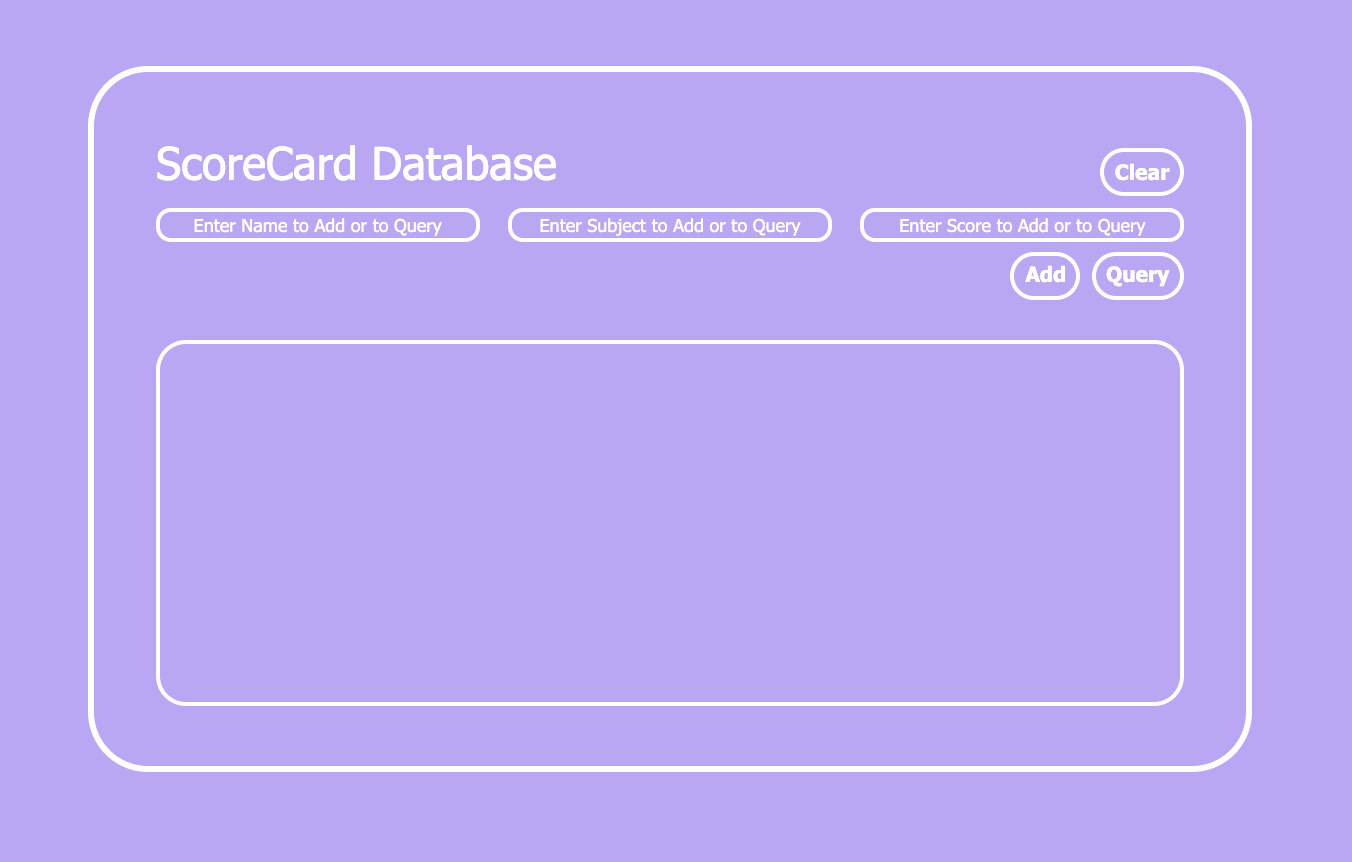
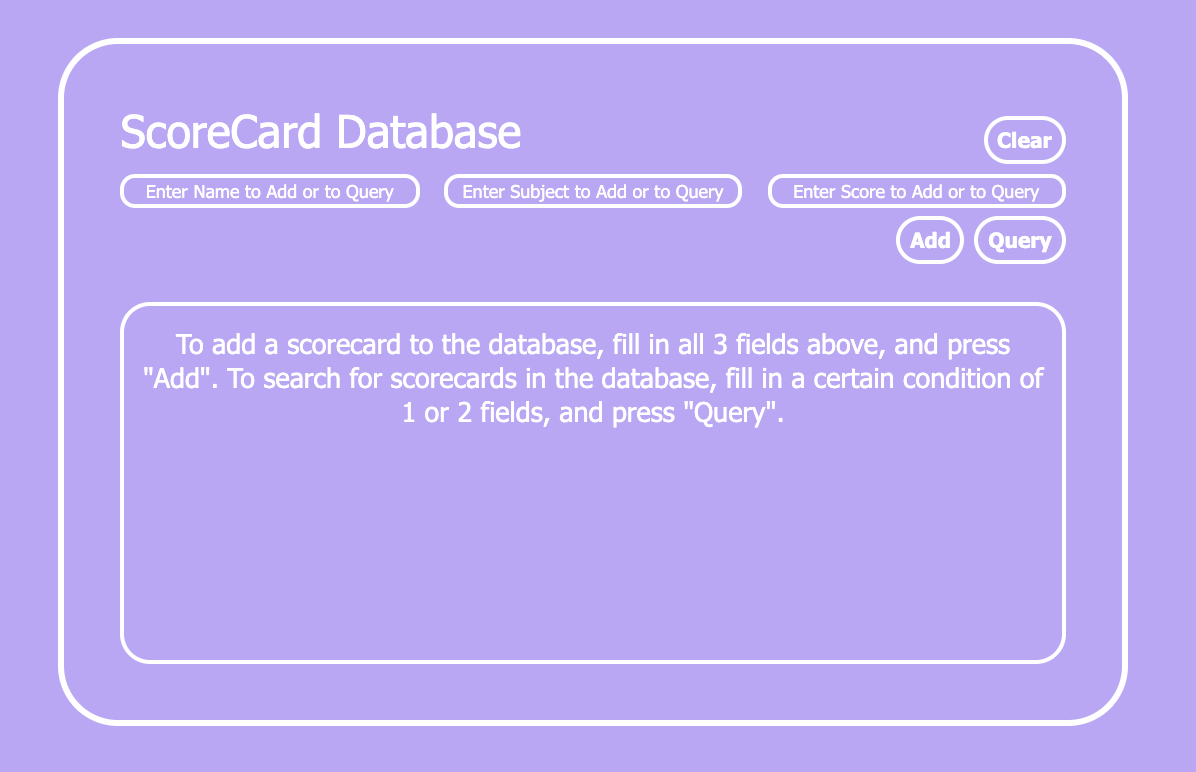
Add initial text

Changed region(s): [[0.0309, 0.0311, 0.959, 0.9326], [0.0928, 0.9326, 0.8972, 0.9637]]

diff --git a/frontend/src/containers/scoreCardDB.js b/frontend/src/containers/scoreCardDB.js
@@ -10,7 +10,7 @@ const instance = axios.create({
 
 function ScoreCardDB() {
   const [queryResult, setQueryResult] = useState([]);
-  const [showText, setShowText] = useState('');
+  const [showText, setShowText] = useState('To add a scorecard to the database, fill in all 3 fields above, and press "Add". To search for scorecards in the database, fill in a certain condition of 1 or 2 fields, and press "Query".');
   const [input, setInput] = useState({
       name: null,
       subject: null,

diff --git a/backend/routes/scoreCards.js b/backend/routes/scoreCards.js
@@ -27,7 +27,7 @@ router.get('/', async function (req, res) {
       let string = '';
       for (var i = 0; i < keys.length; i++) {
         if (i === keys.length - 1) {
-          string = string + keys[i] + ' (' + capitalizeFst(target[keys[i]]) + '). '
+          string = string + keys[i] + ' (' + capitalizeFst(target[keys[i]]) + ') '
         }
         else {
           string = string + keys[i] + ' (' + capitalizeFst(target[keys[i]]) + '), '

diff --git a/frontend/src/App.css b/frontend/src/App.css
@@ -115,6 +115,8 @@ input:hover {
   height: 30vh;
   margin-top: 3%;
   padding-top: 2%;
+  padding-left: 1%;
+  padding-right: 1%;
   border-width: 3px;
   border-style: solid;
   border-color: #FFFFFF;
